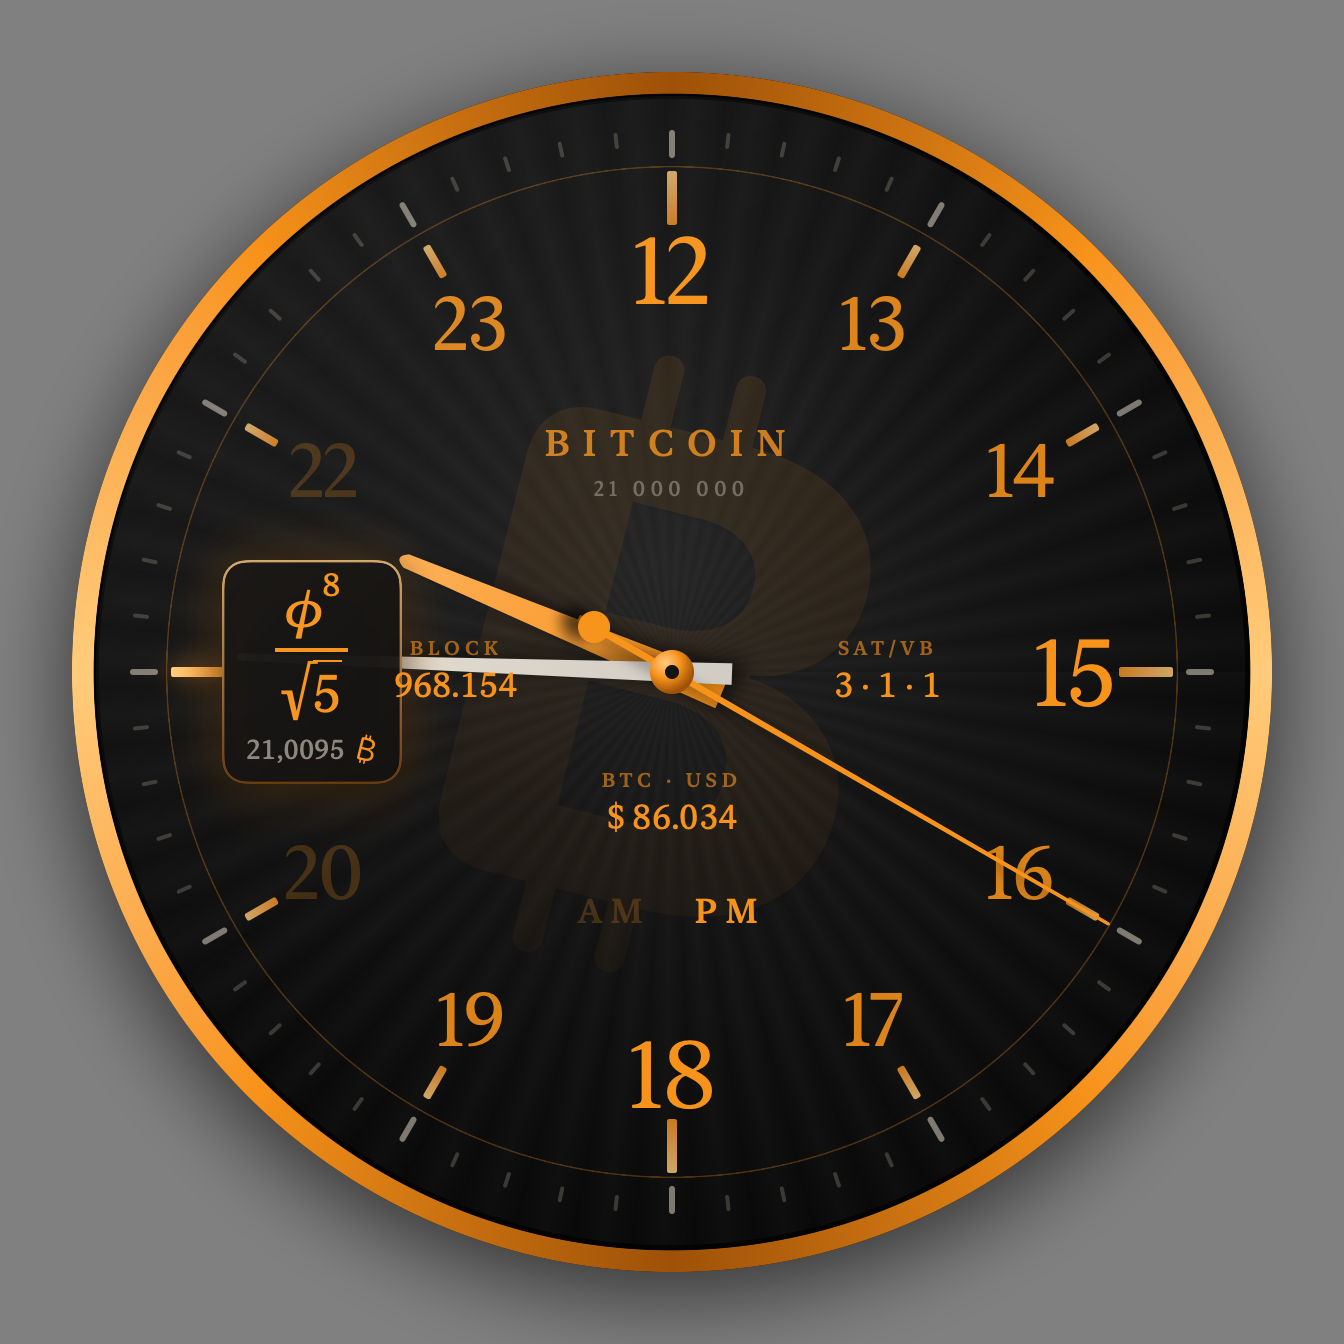
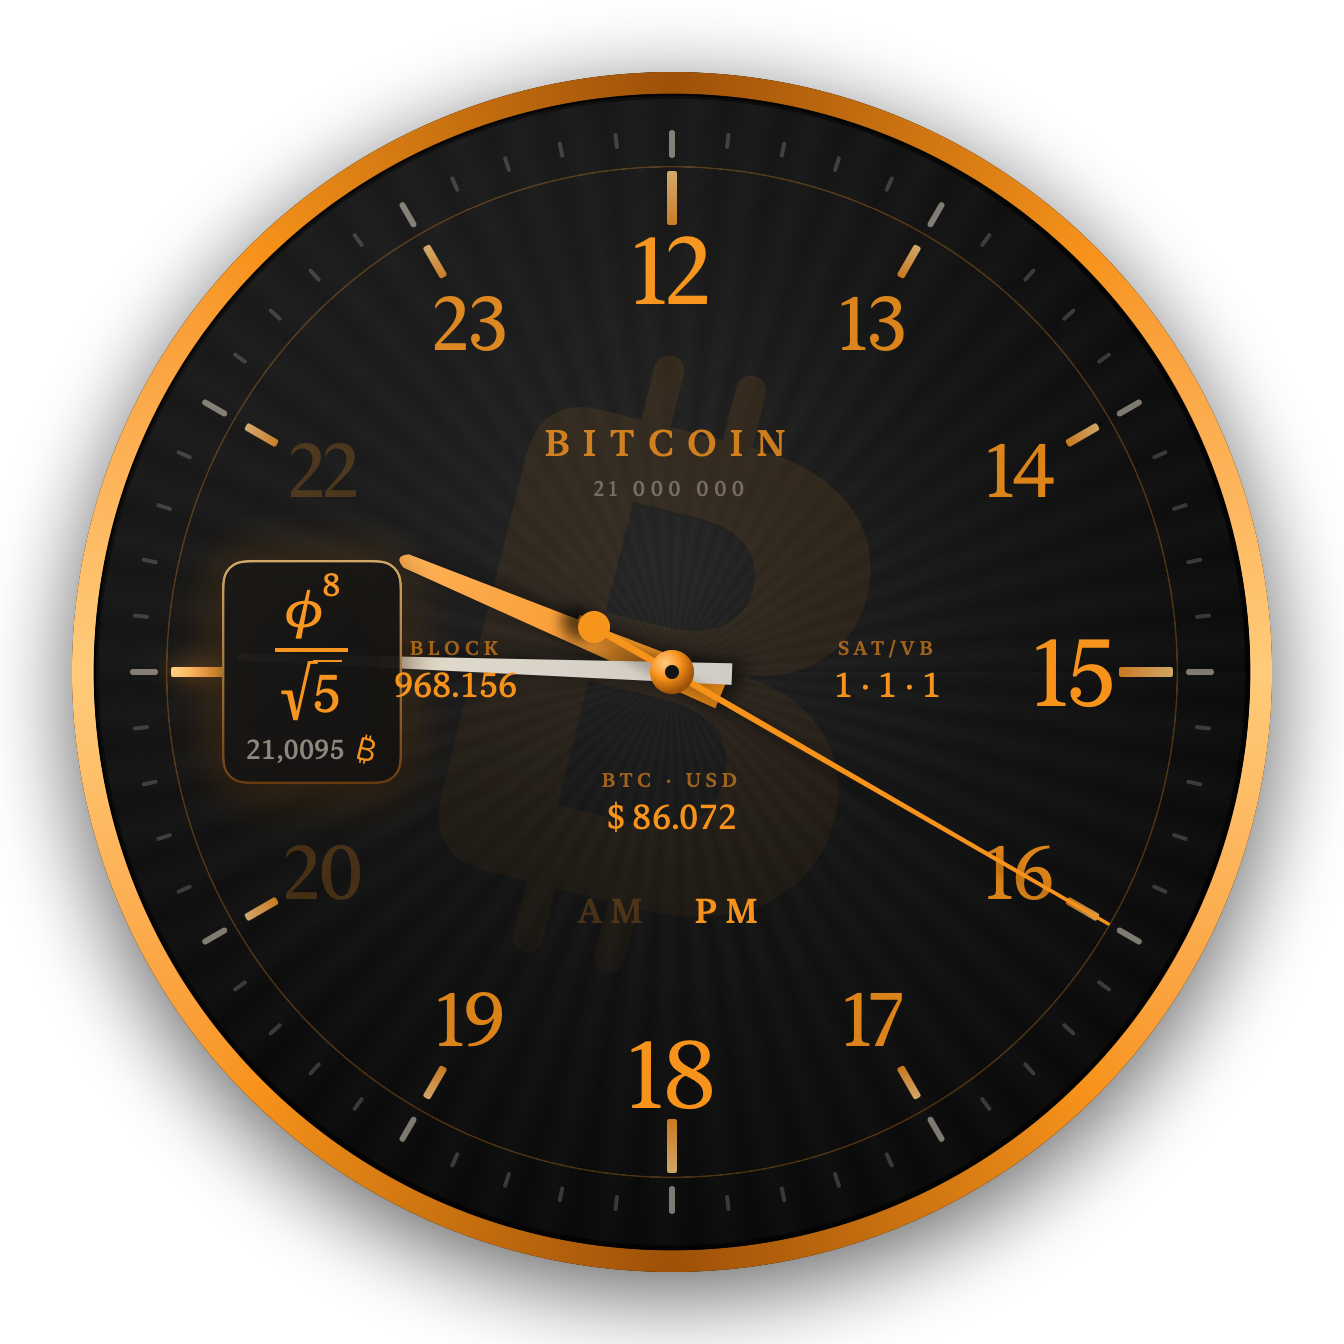
README: Bedienung, Menü im Einzelnen, Aufruf zum Mitmachen, Link zur Projektseite
Schnappschüsse jetzt mit transparentem Hintergrund.

diff --git a/Sources/BitcoinUhr/main.swift b/Sources/BitcoinUhr/main.swift
@@ -24,7 +24,7 @@ if let i = args.firstIndex(of: "--snapshot"), i + 1 < args.count {
                 }
             }
                 .frame(width: 672, height: 672)
-                .background(Color(white: 0.5))
+                .background(Color.clear)
             let renderer = ImageRenderer(content: view)
             renderer.scale = 2
             if let img = renderer.nsImage, let tiff = img.tiffRepresentation,

diff --git a/README.md b/README.md
@@ -1,12 +1,14 @@
 # Bitcoin-Uhr
 
-Eine analoge Schreibtischuhr für macOS in Bitcoin-Orange. Auf den 5-Minuten-Strichen erscheinen mathematische Formeln, deren Wert gerundet genau die Stunde ergibt. Um 21 Uhr steht dort das ₿. Live-Daten von [mempool.space](https://mempool.space) zeigt die Uhr als schlichte Textanzeigen auf dem Zifferblatt.
+Eine analoge Schreibtischuhr für macOS in Bitcoin-Orange. Auf den 5-Minuten-Strichen erscheinen mathematische Formeln, deren Wert gerundet die Stunde ergibt. Um 21 Uhr steht dort das ₿. Live-Daten von [mempool.space](https://mempool.space) zeigt die Uhr als schlichte Textanzeigen auf dem Zifferblatt.
 
 *An analog macOS desktop clock in Bitcoin orange with math formulas on the hour marks and live data from mempool.space. UI in German.*
 
 <p align="center"><img src="docs/uhr.png" width="480" alt="Bitcoin-Uhr um 21:45 mit der Formel φ⁸/√5 ≈ 21 an der ₿-Position"></p>
 
 Die Idee stammt von der „mathematical clock“ von [@Math_files](https://x.com/Math_files/status/2102353716305170664) und wurde hier auf 24 Formeln erweitert.
+
+Ein privates Hobbyprojekt, kein Produkt: kein Geschäftsmodell, kein Support-Versprechen. Mehr dazu, mit Bildern und allen Formeln, auf **[librarycompass.com/bitcoin-uhr](https://librarycompass.com/bitcoin-uhr/)**.
 
 ## Was sie kann
 
@@ -33,11 +35,59 @@ bash Scripts/build_local_app.sh
 
 Das Skript baut die App, erzeugt das Symbol, signiert ad hoc, installiert nach `/Applications/BitcoinUhr.app` und startet sie. Beim ersten Start trägt sich die Uhr als Anmeldeobjekt ein. Das lässt sich per Rechtsklick wieder abschalten.
 
-Bedienung: Linke Maustaste verschiebt die Uhr, Rechtsklick öffnet das Menü.
+## Bedienung
+
+Die Uhr hat kein Fenster mit Knöpfen und kein Symbol im Dock. Alles läuft über die Maus direkt auf dem Zifferblatt.
+
+1. **Verschieben:** Mit der linken Maustaste auf die Uhr klicken und ziehen. Sie merkt sich ihren Platz, auch über einen Neustart hinweg.
+2. **Einstellen:** Rechtsklick auf die Uhr öffnet das Menü. Jede Einstellung wirkt sofort und bleibt gespeichert.
+3. **Formel verstehen:** Zu jeder vollen fünften Minute erscheint eine Formel. Ein Klick darauf öffnet ein Fenster mit Rechenweg und der Bedeutung jedes Zeichens.
+4. **Daten verstehen:** Ein Klick auf Blockhöhe, Gebühren oder Kurs öffnet zuerst eine Erklärung für Einsteiger. Von dort führt ein Knopf auf Wunsch zu mempool.space.
+
+Das Rechtsklick-Menü im Einzelnen:
+
+| Eintrag | Was er tut |
+|---|---|
+| Größe | Klein, Mittel, Groß, Sehr groß (260 bis 640 Punkte). Die Uhr wächst um ihre Mitte. |
+| Sekundenzeiger (CPU-Last) | Aus (keine Last), harter Sprung (voreingestellt, minimale Last), weicher Sprung, gleitend (höchste Last). |
+| Anzeige | Formeln, ₿-Wasserzeichen und AM/PM einzeln ein- und ausschalten. |
+| Komplikationen (mempool.space) | Für jeden der vier Plätze (oben, links, rechts, unten) den Inhalt wählen oder „Aus“. Dazu das Intervall (jede Minute, alle 5 oder alle 15 Minuten) und „Jetzt aktualisieren“. |
+| Über allen Fenstern | Normal liegt die Uhr auf dem Schreibtisch unter allen Fenstern, hiermit vor ihnen. |
+| Beim Anmelden starten | Autostart an oder aus. |
+| Bitcoin-Uhr beenden | Beendet die Uhr. |
 
 ## Datenschutz
 
 Die Uhr sammelt nichts und sendet nichts. Sie ruft nur die öffentliche API von mempool.space ab, und nur für die Komplikationen, die gerade sichtbar sind. Sind alle ausgeschaltet, gibt es keinen Netzverkehr.
+
+## Mitmachen
+
+Die Uhr ist ein Anfang, kein fertiges Produkt. **Baut sie weiter.** Wer eine Idee hat, forkt das Repository, probiert sie aus und schickt einen Pull Request. Auch ein Issue mit einer guten Idee ist ein Beitrag. Der Code ist klein und in SwiftUI geschrieben, der Einstieg gelingt an einem Abend.
+
+Ideen, die noch niemand gebaut hat:
+
+- Weitere Komplikationen: Hashrate, Sats pro Euro, Lightning-Kapazität, Zeit seit dem letzten Block
+- Eine englische Oberfläche und weitere Sprachen
+- Neue Formeln oder ganze Formelsätze zum Umschalten
+- Andere Zifferblätter und Farben, etwa ein helles Blatt
+- Ein echtes macOS-Widget für die Mitteilungszentrale
+- Die Uhr als Bildschirmschoner oder als iPhone-App
+- Ein Wecker, der zum nächsten Halving klingelt
+- Eine eigene Node statt mempool.space als Datenquelle
+
+Wo was liegt:
+
+| Datei | Inhalt |
+|---|---|
+| `Sources/BitcoinUhr/ClockView.swift` | Zifferblatt, Beschriftung, Formel-Schilder, Rechtsklick-Menü |
+| `Sources/BitcoinUhr/HandsLayerView.swift` | Zeiger als Core-Animation-Ebenen |
+| `Sources/BitcoinUhr/MathExpr.swift` | die 24 Formeln und ihr Formelsatz |
+| `Sources/BitcoinUhr/Explanations.swift` | Erklärtexte zu Formeln und Zeichen |
+| `Sources/BitcoinUhr/Mempool.swift` | Abfrage von mempool.space, die Komplikationen |
+| `Sources/BitcoinUhr/ComplicationInfo.swift` | Erklärfenster zu den Komplikationen |
+| `Sources/BitcoinUhr/AppDelegate.swift` | Fenster, Klicks, Einstellungen, Autostart |
+
+Zum Ausprobieren ohne Installation rendert `BitcoinUhr --snapshot <ordner> 21:45:00` das Zifferblatt und die Erklärfenster als PNG.
 
 ## Lizenz
 
